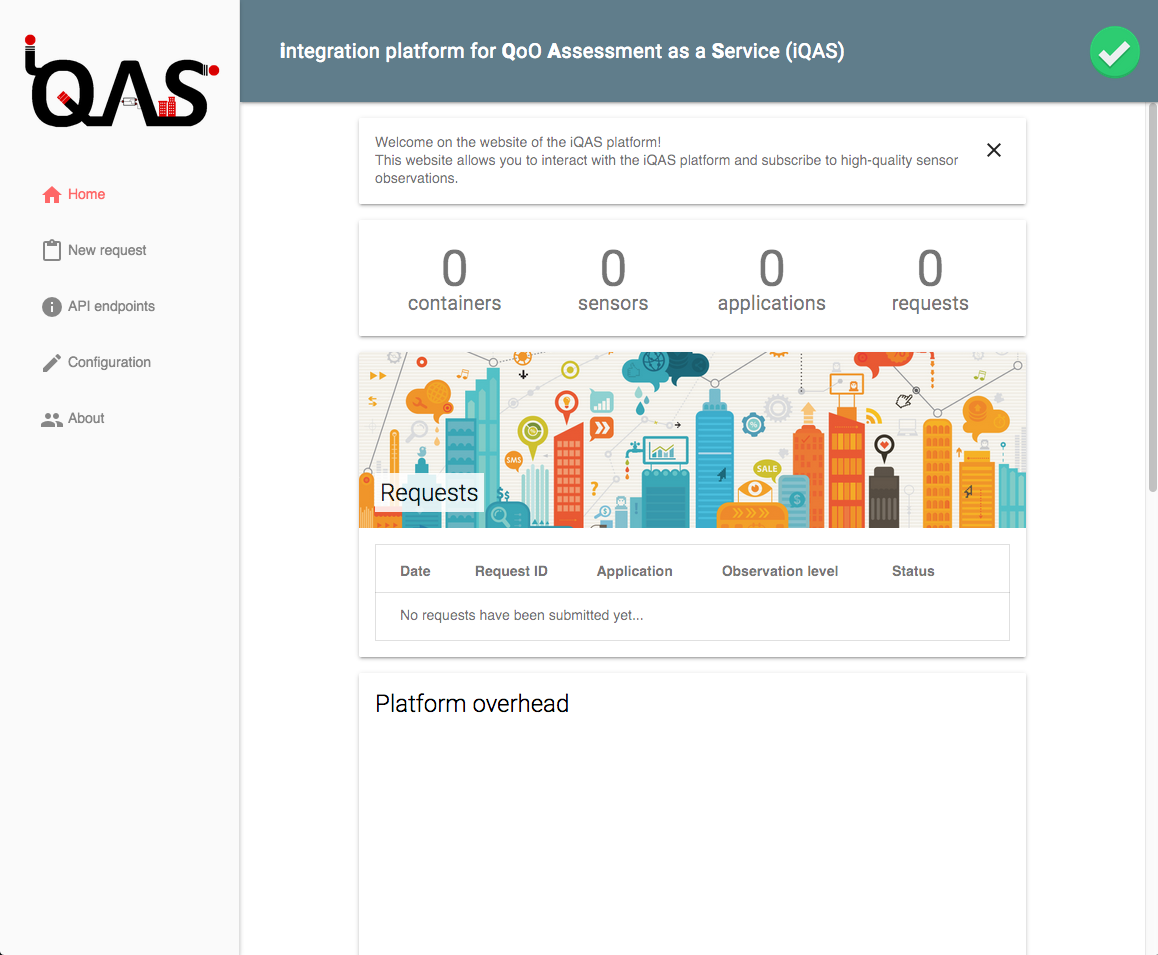
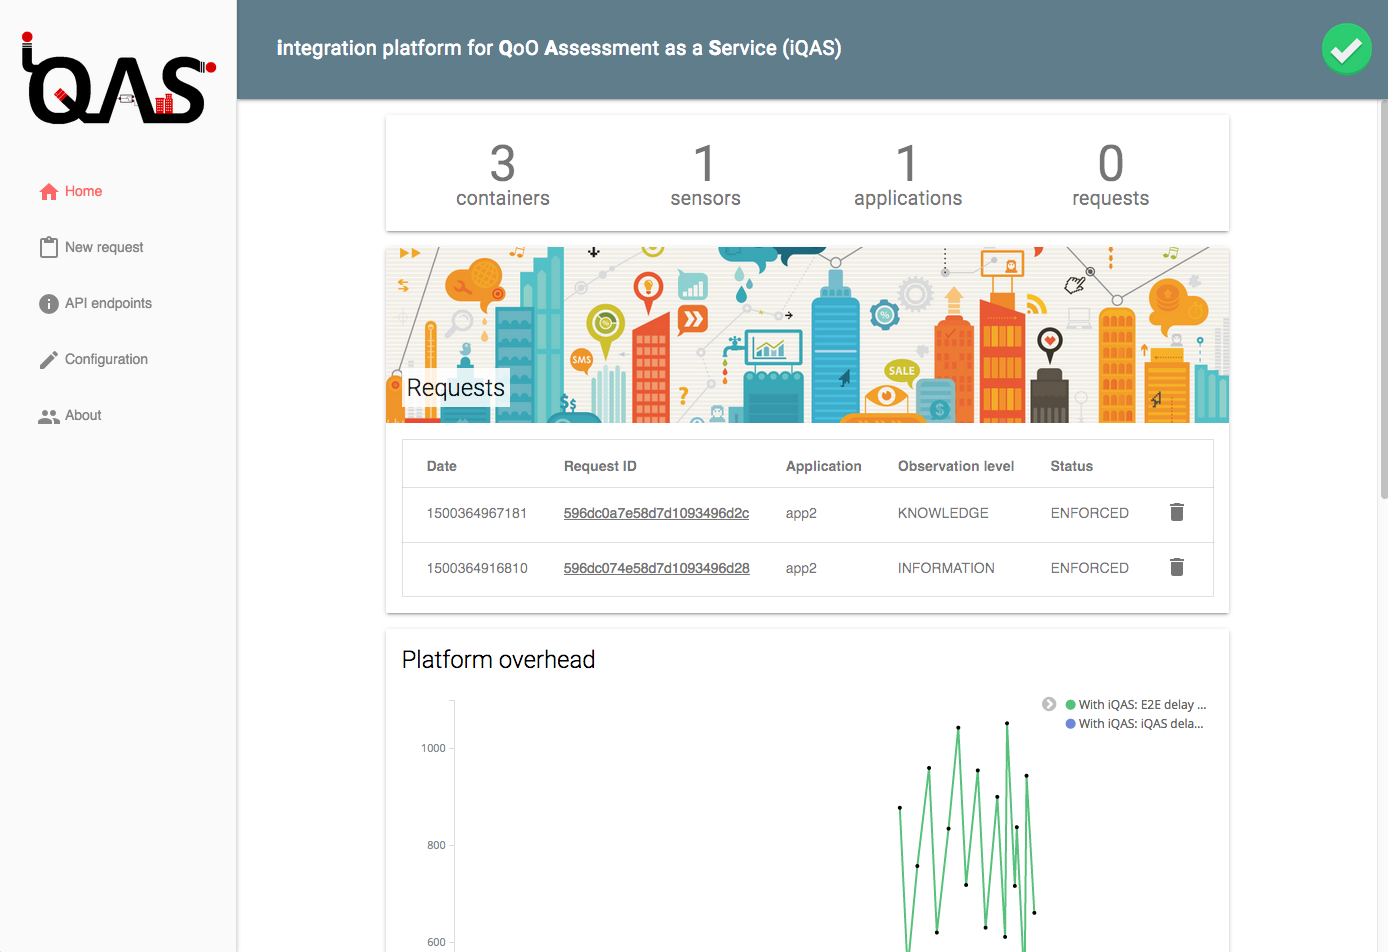
Updated documentation + homepage screenshot

diff --git a/README.md b/README.md
@@ -96,14 +96,14 @@ In this quickstart guide, we will use the variable `$IQAS_DIR` to refer to the e
     1. TODO
 
 
-## iQAS interaction
+## Submit a new iQAS Request
 
-### Graphical User Interface (GUI)
+### Through the Graphical User Interface (GUI)
 
 By default, the iQAS GUI can be accessed at [http://\[api_gateway_endpoint_address\]:\[api_gateway_endpoint_port\]](#)
 ![iqas_logo](/src/main/resources/web/figures/screenshot_iqas_homepage.png?raw=true "iQAS homepage")
 
-### RESTful APIs
+### With RESTful APIs
 
 You can also perform POST, DELETE and GET queries on the RESTful endpoints provided by the platform. Here is a list of allowed operations:
 
@@ -149,7 +149,6 @@ You can submit new requests to the endpoint `/requests`. You should set the head
 	"location": "ALL",
 	"obs_level": "RAW_DATA"
 }
-
 ```
 
 ```javascript
@@ -163,7 +162,6 @@ You can submit new requests to the endpoint `/requests`. You should set the head
 	    "interested_in": ["OBS_ACCURACY", "OBS_FRESHNESS"]
 	}
 }
-
 ```
 
 ```javascript
@@ -181,7 +179,6 @@ You can submit new requests to the endpoint `/requests`. You should set the head
         "sla_level": "GUARANTEED"
     }
 }
-
 ```
 
 When present, the `qoo` parameter represents a "QoO Service Level Agreement" and should be expressed as follow:
@@ -193,9 +190,136 @@ When present, the `qoo` parameter represents a "QoO Service Level Agreement" and
 
 + /requests/\[request_id\] 
 
-### Observation consumption by applications
+## Observation consumption by applications
 
-Once an iQAS request has been successfully enforced, observations are available to applications at the Kafka topic `[application_id]_[request_id]`.
+Once an iQAS request has successfully been enforced, observations are available to applications at the Kafka topic `[application_id]_[request_id]`. Here are some examples of observations that may be delivered according to the observation level asked:
+
++ `RAW_DATA`
+```javascript
+{
+  "date" : 1500364730089,
+  "value" : 4.276,
+  "producer" : "sensor01",
+  "timestamps" : "produced:1500364730089;iQAS_in:1500364730543;iQAS_out:1500364730664",
+  "qoOAttributeValues" : {
+    "OBS_ACCURACY" : "100.0",
+    "OBS_FRESHNESS" : "575.0"
+  }
+}
+```
+
++ `INFORMATION`
+```javascript
+{
+  "date" : 1500364775129,
+  "value" : -7.29,
+  "producer" : "sensor01",
+  "timestamps" : "produced:1500364775129;iQAS_in:1500364775531;iQAS_out:1500364776021",
+  "qoOAttributeValues" : {
+    "OBS_ACCURACY" : "100.0",
+    "OBS_FRESHNESS" : "892.0"
+  },
+  "sensorContext" : {
+    "latitude" : "43.53101809",
+    "longitude" : "1.40158296",
+    "altitude" : "152",
+    "relativeLocation" : "Chullanka - Portet-sur-Garonne",
+    "topic" : "temperature"
+  }
+}
+```
+
++ `KNOWLEDGE`
+```javascript
+{"obs": [
+  {
+    "@id": "http://isae.fr/iqas/qoo-ontology#accuracyKind",
+    "@type": "http://purl.org/iot/vocab/m3-lite#Others"
+  },
+  {
+    "@id": "http://isae.fr/iqas/qoo-ontology#accuracyUnit",
+    "@type": "http://purl.org/iot/vocab/m3-lite#Percent"
+  },
+  {
+    "@id": "http://isae.fr/iqas/qoo-ontology#freshnessKind",
+    "@type": "http://purl.org/iot/vocab/m3-lite#Others"
+  },
+  {
+    "@id": "http://isae.fr/iqas/qoo-ontology#freshnessUnit",
+    "@type": "http://purl.org/iot/vocab/m3-lite#Millisecond"
+  },
+  {
+    "@id": "http://isae.fr/iqas/qoo-ontology#location",
+    "@type": "http://www.w3.org/2003/01/geo/wgs84_pos#Point",
+    "alt": "152",
+    "altRelative": "0",
+    "lat": "43.53101809",
+    "long": "1.40158296",
+    "relativeLocation": "Chullanka - Portet-sur-Garonne"
+  },
+  {
+    "@id": "http://isae.fr/iqas/qoo-ontology#obs",
+    "@type": "http://purl.oclc.org/NET/ssnx/ssn#Observation",
+    "featureOfInterest": "http://isae.fr/iqas/qoo-ontology#publicLocations",
+    "observationResult": "http://isae.fr/iqas/qoo-ontology#sensorOutput",
+    "observedBy": "http://isae.fr/iqas/qoo-ontology#sensor01",
+    "observedProperty": "http://isae.fr/iqas/qoo-ontology#temperature"
+  },
+  {
+    "@id": "http://isae.fr/iqas/qoo-ontology#obsValue",
+    "@type": "http://purl.oclc.org/NET/ssnx/ssn#ObservationValue",
+    "hasQoO": "http://isae.fr/iqas/qoo-ontology#qooAttributesList",
+    "hasQuantityKind": "http://purl.org/iot/vocab/m3-lite#Temperature",
+    "hasUnit": "http://purl.org/iot/vocab/m3-lite#DegreeCelsius",
+    "obsDateValue": "2017-07-18 10:00:00.147",
+    "obsLevelValue": "KNOWLEDGE",
+    "obsStrValue": "9.383",
+    "obsTimestampsValue": "produced:1500364800147;iQAS_in:1500364800313;iQAS_out:1500364800645"
+  },
+  {
+    "@id": "http://isae.fr/iqas/qoo-ontology#qooAttributesList",
+    "@type": "rdf:Seq",
+    "_1": "http://isae.fr/iqas/qoo-ontology#qooIntrinsic_OBS_ACCURACY",
+    "_2": "http://isae.fr/iqas/qoo-ontology#qooIntrinsic_OBS_FRESHNESS"
+  },
+  {
+    "@id": "http://isae.fr/iqas/qoo-ontology#qooIntrinsic_OBS_ACCURACY",
+    "@type": "http://isae.fr/iqas/qoo-ontology#QoOIntrisicQuality",
+    "hasQoOValue": "http://isae.fr/iqas/qoo-ontology#qooValue_OBS_ACCURACY",
+    "isAbout": "OBS_ACCURACY"
+  },
+  {
+    "@id": "http://isae.fr/iqas/qoo-ontology#qooIntrinsic_OBS_FRESHNESS",
+    "@type": "http://isae.fr/iqas/qoo-ontology#QoOIntrisicQuality",
+    "hasQoOValue": "http://isae.fr/iqas/qoo-ontology#qooValue_OBS_FRESHNESS",
+    "isAbout": "OBS_FRESHNESS"
+  },
+  {
+    "@id": "http://isae.fr/iqas/qoo-ontology#qooValue_OBS_ACCURACY",
+    "@type": "http://isae.fr/iqas/qoo-ontology#QoOValue",
+    "hasQuantityKind": "http://isae.fr/iqas/qoo-ontology#accuracyKind",
+    "hasUnit": "http://isae.fr/iqas/qoo-ontology#accuracyUnit",
+    "qooStrValue": "100.0"
+  },
+  {
+    "@id": "http://isae.fr/iqas/qoo-ontology#qooValue_OBS_FRESHNESS",
+    "@type": "http://isae.fr/iqas/qoo-ontology#QoOValue",
+    "hasQuantityKind": "http://isae.fr/iqas/qoo-ontology#freshnessKind",
+    "hasUnit": "http://isae.fr/iqas/qoo-ontology#freshnessUnit",
+    "qooStrValue": "497.0"
+  },
+  {
+    "@id": "http://isae.fr/iqas/qoo-ontology#sensor01",
+    "@type": "http://purl.oclc.org/NET/ssnx/ssn#Sensor",
+    "location": "http://isae.fr/iqas/qoo-ontology#location"
+  },
+  {
+    "@id": "http://isae.fr/iqas/qoo-ontology#sensorOutput",
+    "@type": "http://purl.oclc.org/NET/ssnx/ssn#SensorOutput",
+    "hasValue": "http://isae.fr/iqas/qoo-ontology#obsValue"
+  }
+]}
+```
 
 ## Performance evaluation and benchmarking
 
@@ -272,4 +396,4 @@ The iQAS platform have been developed during the PhD thesis of [Antoine Auger](h
 
 This research was supported in part by the French Ministry of Defence through financial support of the Direction Générale de l’Armement (DGA). 
 
-![iqas_logo](/src/main/resources/web/figures/banniere.png?raw=true "iQAS homepage")
+![iqas_logo](/src/main/resources/web/figures/banniere.png?raw=true "Banniere")
